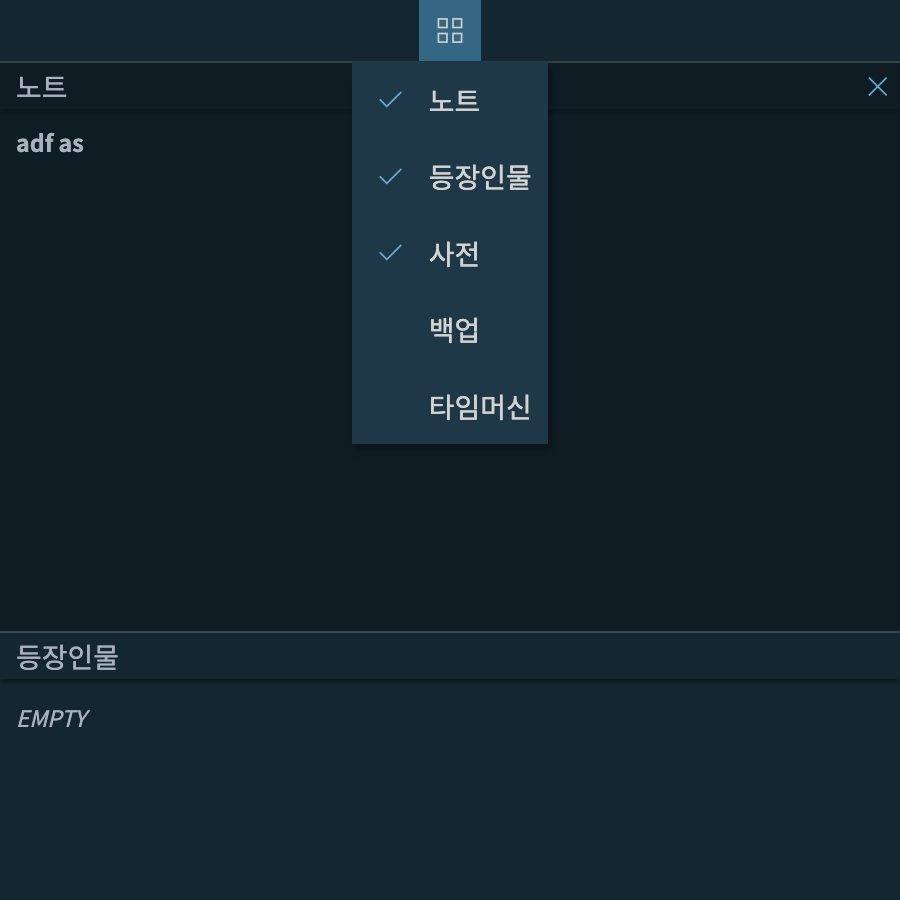
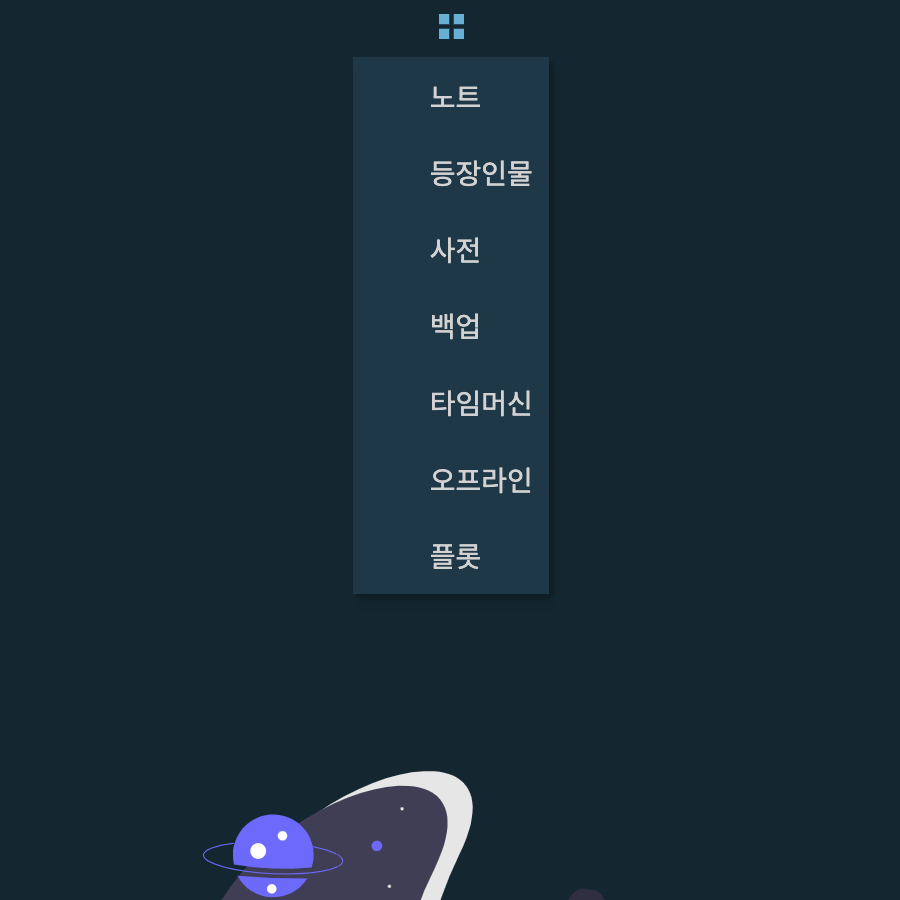
[plugin] 플러그인 설명

diff --git a/doc/d04.plugin/d04.plugin.md b/doc/d04.plugin/d04.plugin.md
@@ -12,7 +12,7 @@ permalink: /docs/plugins
 이곳에서는 작품 내용을 살펴볼 수 있는 다양한 플러그인에 대해 설명합니다.
 {: .fs-6 .fw-300 }
 
-편집기 우측 상단의 `노트뷰`를 클릭하면 다음과 같은 창이 나타닙니다.
+편집기 우측 상단의 `플러그인`을 클릭하면 다음과 같은 창이 나타닙니다.
 
 ![](../../assets/images/ssda_04_plugins_00.png){: width="450" }
 
@@ -21,4 +21,6 @@ permalink: /docs/plugins
 * 등장인물 - 현재 편집중인 노트에서 등장인물 정보를 확인합니다.
 * 사전 - 국어사전 기능을 제공합니다.
 * 백업 - 노트를 안전하게 저장할 수 있습니다.
-* [타임머신](/docs/plugins/timemachine) - 편집중인 노트의 이력을 보관합니다.
+* [타임머신](/docs/plugins/timemachine) - 노트 편집 시 ***스냅샷을 자동 저장***합니다. 언제든지 과거의 문서 이력을 확인할 수 있습니다.
+* 오프라인 - SSDA 소설 저작 도구에서는 인터넷 연결이 없는 곳에서 노트를 편집할 수 있습니다. 이곳에서 오프라인 작업을 확인할 수 있습니다. 인터넷이 다시 연결되면 오프라인 작업 내역을 전송합니다.
+* 플롯 - 이곳에서 사건과 플롯 목록을 확인할 수 있습니다.
